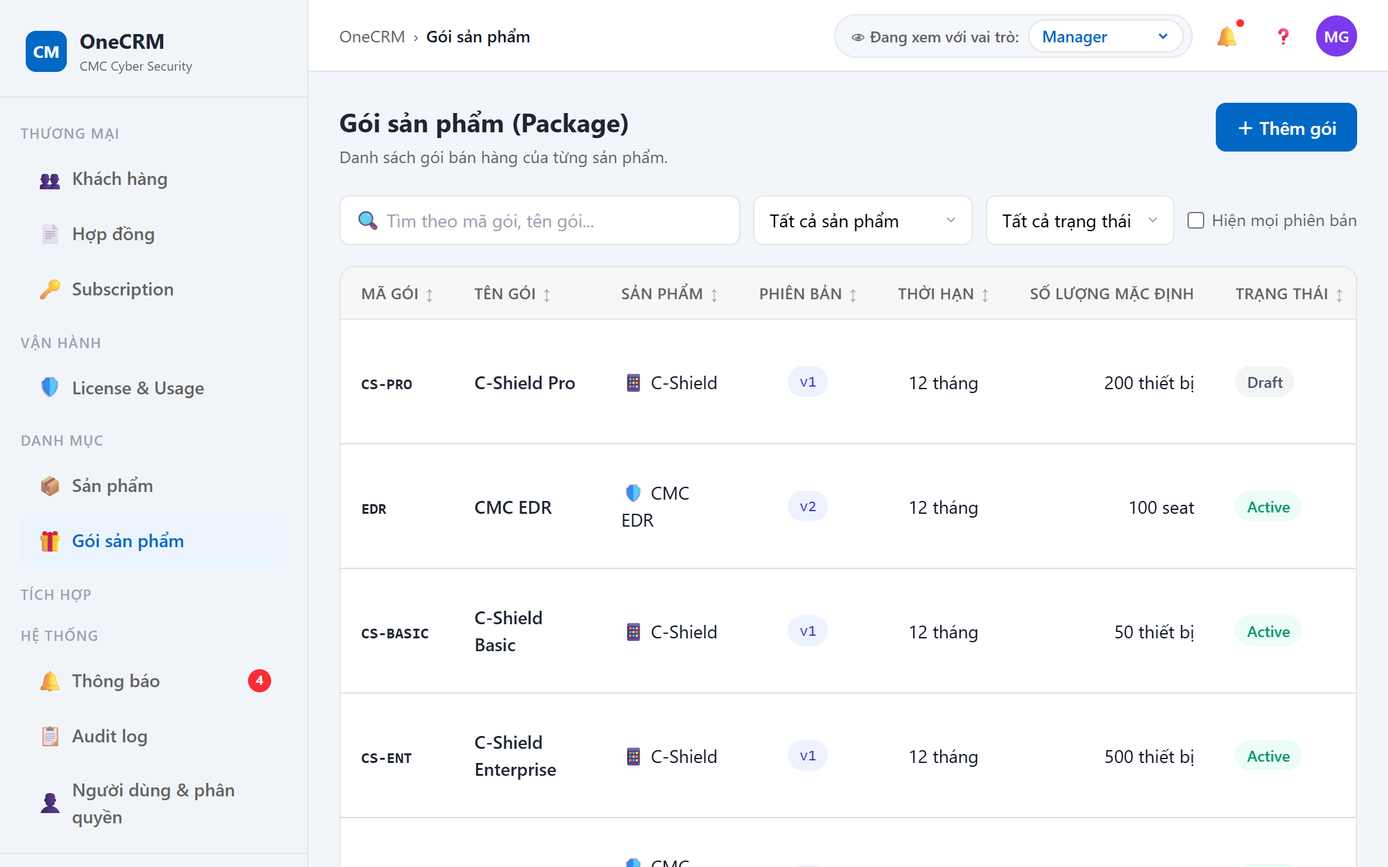
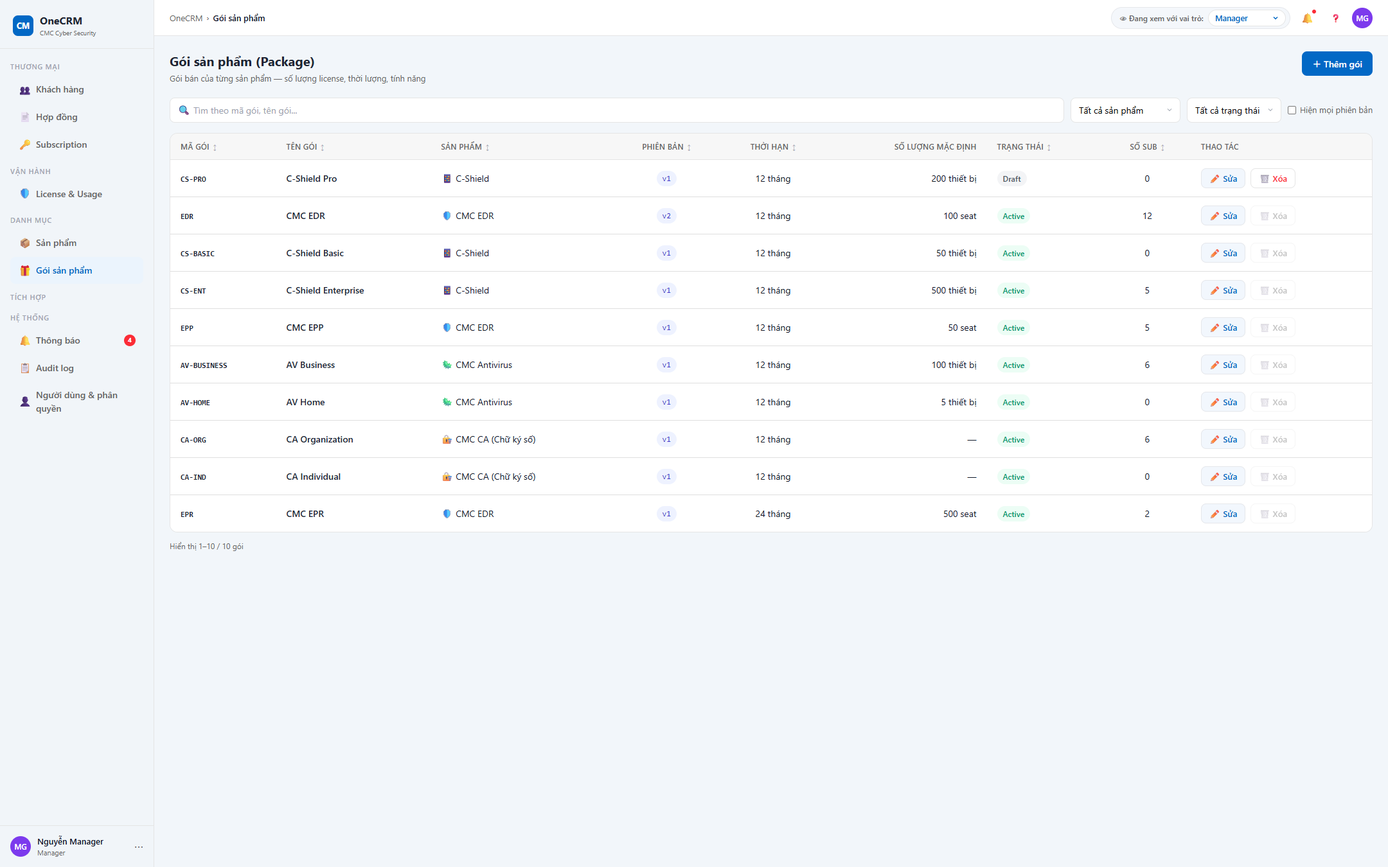
docs(PRD-v2.7.1): nhất quán UI/UX nút thao tác + sub-title + sort mặc định
Demo v2.8.0 + FRS đồng bộ; KHÔNG đổi FR/BR/data model PRD.

- Nút Xóa bỏ highlight (đỏ đặc → chữ đỏ, viền xám); giữ đỏ đặc cho nút xác nhận modal
- 'Chỉnh sửa' → 'Sửa'; danh sách thêm chữ '✏ Sửa'/'🗑 Xóa' (KH·HĐ·Sub·Gói); thống nhất icon 🗑
- Viết lại 5 sub-title (Khách hàng·Hợp đồng·Sản phẩm·Gói·Người dùng)
- Danh sách HĐ: nhãn 'Tạo:' cho createdAt (phân biệt Ngày ký) — UC-CON-01
- Sort mặc định (sửa lỗi + tường minh): Khách hàng A→Z (khớp UC-CUS-01 BR-04, demo trước thiếu); Audit log thời gian giảm dần; Thông báo giữ seed (time là nhãn hiển thị); +createdAt SUB-2026-020
- FRS đồng bộ: UC-CON-01, UC-CAT-01/03, UC-AUD-01, UC-NOT-01
- PRD: bump 2.7 → 2.7.1 + changelog cho dev
- Chụp lại 6 ảnh danh sách bị ảnh hưởng

diff --git a/docs/demo/v2.8.0_audit_notification.html b/docs/demo/v2.8.0_audit_notification.html
@@ -760,7 +760,7 @@ mark{background:#FEF9C3;border-radius:2px;padding:0 1px;}
       <div id="module-customer">
       <div class="view active" id="view-list">
         <div class="page-header">
-          <div><div class="page-title">Danh sách Khách hàng</div><div class="page-subtitle">Quản lý toàn bộ hồ sơ khách hàng — B2B, Reseller, B2C, Other</div></div>
+          <div><div class="page-title">Danh sách Khách hàng</div><div class="page-subtitle">Hồ sơ khách hàng tập trung — B2B, Reseller, B2C, Other</div></div>
           <button class="btn btn-primary" onclick="openModal('modalCreate')">＋ Thêm Khách hàng</button>
         </div>
         <div class="toolbar">
@@ -798,7 +798,7 @@ mark{background:#FEF9C3;border-radius:2px;padding:0 1px;}
           <div class="page-header">
             <div>
               <div class="page-title">Danh sách Hợp đồng</div>
-              <div class="page-subtitle">Quản lý hợp đồng thương mại — trực tiếp (Direct) & đại lý (Reseller)</div>
+              <div class="page-subtitle">Hợp đồng thương mại — trực tiếp (Direct) & đại lý (Reseller)</div>
             </div>
             <button class="btn btn-primary" onclick="conOpenModal('conModalCreate')">＋ Thêm Hợp đồng</button>
           </div>
@@ -948,7 +948,7 @@ mark{background:#FEF9C3;border-radius:2px;padding:0 1px;}
           <div class="page-header">
             <div>
               <div class="page-title">Sản phẩm (Product Catalog)</div>
-              <div class="page-subtitle">Danh mục sản phẩm đã đăng ký.</div>
+              <div class="page-subtitle">Sản phẩm an ninh mạng đang phân phối — nguồn để tạo gói & subscription</div>
             </div>
           </div>
           <div class="cat-kanban" id="catKanban"></div>
@@ -964,7 +964,7 @@ mark{background:#FEF9C3;border-radius:2px;padding:0 1px;}
           <div class="page-header">
             <div>
               <div class="page-title">Gói sản phẩm (Package)</div>
-              <div class="page-subtitle">Danh sách gói bán hàng của từng sản phẩm.</div>
+              <div class="page-subtitle">Gói bán của từng sản phẩm — số lượng license, thời lượng, tính năng</div>
             </div>
             <button class="btn btn-primary" onclick="pkgOpenCreate()">＋ Thêm gói</button>
           </div>
@@ -2286,12 +2286,12 @@ function showCustomer360(id){
 /* ── TABLE ────────────────────────────────────────────── */
 function renderTable(data,page){
   const tbody=document.getElementById('customerTable'),empty=document.getElementById('tableEmpty');
-  const active=data.filter(c=>!c.deletedAt);lastFilteredActive=active;listPage=page||1;
+  const active=data.filter(c=>!c.deletedAt).sort((a,b)=>(a.name||'').localeCompare(b.name||'','vi'));lastFilteredActive=active;listPage=page||1;
   if(!active.length){tbody.innerHTML='';empty.classList.remove('hidden');document.getElementById('pageInfo').textContent='0 kết quả';document.querySelector('.page-btns').innerHTML='';return;}
   empty.classList.add('hidden');
   const tp=Math.max(1,Math.ceil(active.length/PAGE_SIZE));if(listPage>tp)listPage=tp;
   const s=(listPage-1)*PAGE_SIZE,rows=active.slice(s,s+PAGE_SIZE);
-  tbody.innerHTML=rows.map(c=>{const sa=c.subs.filter(x=>x.status==='ACTIVE').length;const delOk=canDeleteCustomer(c);const delBtn=delOk?`<button class="btn btn-ghost btn-sm" onclick="event.stopPropagation();openDelete('${c.id}')" style="color:var(--red);border-color:var(--red);">🗑 Xóa</button>`:`<button class="btn btn-ghost btn-sm" disabled title="${deleteBlockedTooltip(c)}" style="color:var(--gray-400);border-color:var(--border);opacity:.5;cursor:not-allowed;">🗑 Xóa</button>`;
+  tbody.innerHTML=rows.map(c=>{const sa=c.subs.filter(x=>x.status==='ACTIVE').length;const delOk=canDeleteCustomer(c);const delBtn=delOk?`<button class="btn btn-ghost btn-sm" onclick="event.stopPropagation();openDelete('${c.id}')" style="color:var(--red);">🗑 Xóa</button>`:`<button class="btn btn-ghost btn-sm" disabled title="${deleteBlockedTooltip(c)}" style="color:var(--gray-400);border-color:var(--border);opacity:.5;cursor:not-allowed;">🗑 Xóa</button>`;
     return`<tr onclick="showCustomer360('${c.id}')"><td><div style="display:flex;align-items:center;gap:10px;"><div style="width:34px;height:34px;border-radius:8px;background:${typeColor(c.type)};display:flex;align-items:center;justify-content:center;color:white;font-weight:700;font-size:13px;flex-shrink:0;">${c.name.charAt(0)}</div><div><div class="col-name">${c.name}</div><div style="font-size:12px;color:var(--text-secondary);max-width:180px;overflow:hidden;text-overflow:ellipsis;white-space:nowrap;">${c.address||'—'}</div></div></div></td><td><span class="badge badge-${c.type.toLowerCase()}">${c.type}</span></td><td style="font-family:monospace;font-size:13px;">${c.tax||'—'}</td><td style="font-size:13px;">${c.email||'—'}</td><td>${c.subs.length>0?`<div style="font-size:13px;font-weight:500;">${c.subs.length} sub</div><div style="font-size:12px;color:var(--text-secondary);">${sa} active</div>`:'<span style="color:var(--text-secondary);font-size:13px;">Chưa có</span>'}</td><td onclick="event.stopPropagation()"><div style="display:flex;gap:4px;"><button class="btn btn-secondary btn-sm" onclick="event.stopPropagation();openEdit('${c.id}')">✏ Sửa</button>${delBtn}</div></td></tr>`;
   }).join('');
   const from=s+1,to=Math.min(s+PAGE_SIZE,active.length);document.getElementById('pageInfo').textContent=`Hiển thị ${from}–${to} / ${active.length} kết quả`;
@@ -2307,7 +2307,7 @@ function render360(c){
   const parent=c.parentId?customers.find(x=>x.id===c.parentId):null;
   const children=customers.filter(x=>x.parentId===c.id&&!x.deletedAt);
   const statusTxt=c.deletedAt?'Đã xóa':'Đang hoạt động',statusCls=c.deletedAt?'color:var(--red)':'color:#059669';
-  document.getElementById('profileHero').innerHTML=`<div class="profile-header"><div class="profile-id"><div class="profile-avatar">${c.name.charAt(0)}</div><div><div class="profile-name">${c.name}</div><div class="profile-meta"><span class="badge badge-${c.type.toLowerCase()}" style="margin-right:8px;">${c.type}</span><span style="${statusCls};font-size:12px;font-weight:500;">● ${statusTxt}</span></div></div></div><div class="profile-actions">${!c.deletedAt?`<button class="btn btn-secondary" onclick="openEdit('${c.id}')">✏ Sửa</button>${canDeleteCustomer(c)?`<button class="btn btn-ghost" onclick="openDelete('${c.id}')" style="color:var(--red);border-color:var(--red);">🗑 Xóa</button>`:`<button class="btn btn-ghost" disabled title="${deleteBlockedTooltip(c)}" style="color:var(--gray-400);border-color:var(--border);opacity:.5;cursor:not-allowed;">🗑 Xóa</button>`}`:''}<button class="btn btn-ghost" onclick="showView('list');document.getElementById('breadcrumbCurrent').textContent='Khách hàng'">← Quay lại</button></div></div>`;
+  document.getElementById('profileHero').innerHTML=`<div class="profile-header"><div class="profile-id"><div class="profile-avatar">${c.name.charAt(0)}</div><div><div class="profile-name">${c.name}</div><div class="profile-meta"><span class="badge badge-${c.type.toLowerCase()}" style="margin-right:8px;">${c.type}</span><span style="${statusCls};font-size:12px;font-weight:500;">● ${statusTxt}</span></div></div></div><div class="profile-actions">${!c.deletedAt?`<button class="btn btn-secondary" onclick="openEdit('${c.id}')">✏ Sửa</button>${canDeleteCustomer(c)?`<button class="btn btn-ghost" onclick="openDelete('${c.id}')" style="color:var(--red);">🗑 Xóa</button>`:`<button class="btn btn-ghost" disabled title="${deleteBlockedTooltip(c)}" style="color:var(--gray-400);border-color:var(--border);opacity:.5;cursor:not-allowed;">🗑 Xóa</button>`}`:''}<button class="btn btn-ghost" onclick="showView('list');document.getElementById('breadcrumbCurrent').textContent='Khách hàng'">← Quay lại</button></div></div>`;
   document.querySelectorAll('.tab').forEach(t=>t.classList.remove('active'));document.querySelector('.tab').classList.add('active');
   ['tab-overview','tab-contracts','tab-timeline','tab-audit'].forEach(id=>document.getElementById(id).classList.add('hidden'));
   document.getElementById('tab-overview').classList.remove('hidden');
@@ -3010,10 +3010,10 @@ function conRenderTable(){
     if(!isManager) delTitle='Chỉ Manager mới được xóa';
     else if(!canDel) delTitle='Đã có Subscription, không thể xóa';
     const delBtn=(canDel&&isManager)
-      ?`<button class="btn btn-ghost btn-sm" onclick="event.stopPropagation();conOpenDelete('${c.id}')" style="color:var(--red);border-color:var(--red)">🗑 Xóa</button>`
+      ?`<button class="btn btn-ghost btn-sm" onclick="event.stopPropagation();conOpenDelete('${c.id}')" style="color:var(--red)">🗑 Xóa</button>`
       :`<button class="btn btn-ghost btn-sm" disabled title="${delTitle}" style="opacity:.4;cursor:not-allowed">🗑 Xóa</button>`;
     return`<tr onclick="conOpenDetail('${c.id}')">
-      <td><div style="font-weight:600;color:var(--navy);font-size:13px;font-family:monospace">${c.code}</div><div style="font-size:11px;color:var(--text-secondary);margin-top:2px">${conFmtDate(c.createdAt)}</div></td>
+      <td><div style="font-weight:600;color:var(--navy);font-size:13px;font-family:monospace">${c.code}</div><div style="font-size:11px;color:var(--text-secondary);margin-top:2px">Tạo: ${conFmtDate(c.createdAt)}</div></td>
       <td><div style="font-weight:500">${c.customerName}</div><div style="font-size:11px;color:var(--text-secondary)">${c.customerType}</div></td>
       <td>${c.type==='DIRECT'?'<span class="con-badge con-badge-direct">🏢 Direct</span>':'<span class="con-badge con-badge-reseller">🤝 Reseller</span>'}</td>
       <td style="font-size:13px">${conFmtDate(c.signedDate)}</td>
@@ -3043,7 +3043,7 @@ function conOpenDetail(id){
   if(!isManager) delTitle='Chỉ Manager mới được xóa';
   else if(!canDel) delTitle='Đã có Subscription, không thể xóa';
   const delBtn=(canDel&&isManager)
-    ?`<button class="btn btn-ghost btn-sm" onclick="conOpenDelete('${c.id}')" style="color:var(--red);border-color:var(--red)">🗑 Xóa</button>`
+    ?`<button class="btn btn-ghost btn-sm" onclick="conOpenDelete('${c.id}')" style="color:var(--red)">🗑 Xóa</button>`
     :`<button class="btn btn-ghost btn-sm" disabled title="${delTitle}" style="opacity:.4;cursor:not-allowed">🗑 Xóa</button>`;
   document.getElementById('conDetailHero').innerHTML=`
     <div class="con-detail-header">
@@ -4096,7 +4096,7 @@ function subRenderTable(data,page){
     const editDraftRowBtn=isDraftRow
       ?`<button class="btn btn-ghost btn-sm" onclick="event.stopPropagation();subOpenEditSub('${sub.id}')" title="Sửa Draft" style="font-size:13px;">✏ Sửa</button>`:'';
     const deleteDraftRowBtn=isDraftRow
-      ?`<button class="btn btn-ghost btn-sm" onclick="event.stopPropagation();subOpenDeleteDraft('${sub.id}')" style="color:var(--red);border-color:var(--red);gap:4px;" title="Xóa Draft">🗑 Xóa</button>`:'';
+      ?`<button class="btn btn-ghost btn-sm" onclick="event.stopPropagation();subOpenDeleteDraft('${sub.id}')" style="color:var(--red);gap:4px;" title="Xóa Draft">🗑 Xóa</button>`:'';
     const beneficiary=sub.contractType==='RESELLER'&&sub.beneficiaryName
       ?`<div style="font-size:12px;color:var(--text-secondary);margin-top:2px;">→ ${sub.beneficiaryName}</div>`:''
     return`<tr onclick="subOpenDetail('${sub.id}')">
@@ -4468,7 +4468,7 @@ function subRenderHero(sub){
   const canEdit=subCanEdit(sub);
   const backBtn=`<button class="btn btn-ghost" onclick="subShowView('list');subRenderTable();document.getElementById('breadcrumbCurrent').textContent='Subscription';">← Quay lại</button>`;
   const approveBtn=isDraft?`<button class="btn btn-primary" onclick="subOpenApproveDraft('${sub.id}')">✅ Xác nhận</button>`:'';
-  const deleteDraftBtn=isDraft?`<button class="btn btn-ghost" onclick="subOpenDeleteDraft('${sub.id}')" style="color:var(--red);border-color:var(--red)">🗑 Xóa</button>`:'';
+  const deleteDraftBtn=isDraft?`<button class="btn btn-ghost" onclick="subOpenDeleteDraft('${sub.id}')" style="color:var(--red)">🗑 Xóa</button>`:'';
   const editBtn=canEdit?`<button class="btn btn-secondary btn-sm" onclick="subOpenEditSub('${sub.id}')">✏ Sửa</button>`:'';
   const suspendBtn=canSuspend?`<button class="btn btn-ghost btn-sm" onclick="subOpenSuspend('${sub.id}')" style="color:#D97706;border-color:#D97706;">⏸ Tạm dừng</button>`:'';
   const resumeBtn=canResume?`<button class="btn btn-ghost btn-sm" onclick="subOpenResume('${sub.id}')" style="color:#059669;border-color:#059669;">▶ Khôi phục</button>`:'';
@@ -5527,7 +5527,7 @@ function pkgRowActions(p,sc){
     ? pkgActDisabled('✏ Sửa','Gói đã ngừng bán nên không sửa được')
     : `<button class="btn btn-secondary btn-sm" onclick="pkgOpenEdit('${p.id}')">✏ Sửa</button>`;
   let delBtn;
-  if(p.status==='DRAFT'&&pkgCanDelete(p)) delBtn=`<button class="btn btn-ghost btn-sm" style="color:var(--red);border-color:var(--red)" onclick="pkgConfirm('delete','${p.id}')" title="Xóa gói">🗑 Xóa</button>`;
+  if(p.status==='DRAFT'&&pkgCanDelete(p)) delBtn=`<button class="btn btn-ghost btn-sm" style="color:var(--red)" onclick="pkgConfirm('delete','${p.id}')" title="Xóa gói">🗑 Xóa</button>`;
   else if(p.status==='DRAFT') delBtn=pkgActDisabled('🗑 Xóa','Chỉ người tạo gói hoặc Manager mới xóa được');
   else if(p.status==='ACTIVE') delBtn=pkgActDisabled('🗑 Xóa',"Gói đang bán nên không xóa được — muốn dừng, hãy dùng 'Ngừng bán' ở trang chi tiết");
   else delBtn=pkgActDisabled('🗑 Xóa','Gói đã ngừng bán được giữ lại để tra cứu, không xóa');
@@ -5603,7 +5603,7 @@ function pkgOpenDetail(id){
 }
 function pkgSwitchTab(t){document.querySelectorAll('#pkg-view-detail .pkg-tab').forEach(x=>x.classList.toggle('active',x.dataset.t===t));document.querySelectorAll('#pkg-view-detail .pkg-tabpane').forEach(x=>x.classList.remove('active'));document.getElementById('pkgtab-'+t).classList.add('active');}
 function pkgDetailActions(p){
-  if(p.status==='DRAFT')return `${pkgCanPublish(p)?`<button class="btn btn-secondary btn-sm" onclick="pkgConfirm('publish','${p.id}')">🚀 Xuất bản</button>`:pkgActDisabled('🚀 Xuất bản','Chỉ Sales tạo gói hoặc Manager mới được xuất bản')}<button class="btn btn-ghost btn-sm" onclick="pkgOpenEdit('${p.id}')">✏ Sửa</button>${pkgCanDelete(p)?`<button class="btn btn-ghost btn-sm" onclick="pkgConfirm('delete','${p.id}')" style="color:var(--red);border-color:var(--red)">🗑 Xóa</button>`:pkgActDisabled('🗑 Xóa','Chỉ Sales tạo gói hoặc Manager mới được xóa')}`;
+  if(p.status==='DRAFT')return `${pkgCanPublish(p)?`<button class="btn btn-secondary btn-sm" onclick="pkgConfirm('publish','${p.id}')">🚀 Xuất bản</button>`:pkgActDisabled('🚀 Xuất bản','Chỉ Sales tạo gói hoặc Manager mới được xuất bản')}<button class="btn btn-ghost btn-sm" onclick="pkgOpenEdit('${p.id}')">✏ Sửa</button>${pkgCanDelete(p)?`<button class="btn btn-ghost btn-sm" onclick="pkgConfirm('delete','${p.id}')" style="color:var(--red)">🗑 Xóa</button>`:pkgActDisabled('🗑 Xóa','Chỉ Sales tạo gói hoặc Manager mới được xóa')}`;
   if(p.status==='ACTIVE')return `<button class="btn btn-ghost btn-sm" onclick="pkgOpenEdit('${p.id}')">✏ Sửa</button>${pkgCanRetire()?`<button class="btn btn-ghost btn-sm" style="color:var(--amber);border-color:#FDE68A" onclick="pkgConfirm('retire','${p.id}')">⏹ Ngừng bán</button>`:pkgActDisabled('⏹ Ngừng bán','Chỉ Manager mới được ngừng bán gói')}`;
   if(p.status==='RETIRED')return pkgCanPublish(p)?`<button class="btn btn-secondary btn-sm" onclick="pkgConfirm('rollback','${p.id}')" title="Tạo phiên bản nháp mới sao chép cấu hình này">↩ Rollback</button>`:pkgActDisabled('↩ Rollback','Chỉ Sales tạo gói hoặc Manager mới được rollback');
   return '';
@@ -5981,7 +5981,7 @@ function licSeedData(){
     signedDate:'2026-04-05',description:'C-Shield Enterprise — bảo vệ ứng dụng di động Vingroup.',
     createdBy:'Sales B',createdAt:'2026-04-05T09:00:00',poolItems:[],
     subs:[
-      {id:'SUB-2026-020',contractId:'con-014',beneficiaryId:null,beneficiaryName:null,
+      {id:'SUB-2026-020',createdAt:'2026-04-08T09:00:00',contractId:'con-014',beneficiaryId:null,beneficiaryName:null,
        productId:'C_SHIELD',packageId:'PKG-CS-02',packageName:'C-Shield Enterprise',
        startDate:'2026-04-10',endDate:'2027-04-09',licenseQty:null,seatCount:500,
        status:'ACTIVE',note:'',
@@ -7770,7 +7770,7 @@ function notifRender(){
 }
 function notifRenderInbox(){
   const base=NOTIF_INBOX.filter(n=>n.roles.includes(currentUser.role));
-  let items=base;
+  let items=base; // NOTIF_INBOX seed đã xếp mới→cũ; 'time' là nhãn hiển thị (Hôm nay/Hôm qua/13/07) nên KHÔNG sort theo chuỗi được — giữ đúng thứ tự seed. (Khi backend có timestamp thật → sort desc theo đó.)
   const unread=base.filter(n=>!NOTIF_READ.has(n.id)).length;
   if(notifInboxFilter==='unread')items=base.filter(n=>!NOTIF_READ.has(n.id));
   const head=`<div style="display:flex;align-items:center;gap:10px;margin-bottom:14px;flex-wrap:wrap;">
@@ -7936,7 +7936,8 @@ function audApplyFilter(){
     (!audFilter.entity||r.entity.type===audFilter.entity)&&
     (!af||r.actor.toLowerCase().includes(af))&&
     (!audFilter.result||r.result===audFilter.result)&&
-    (!q||`${r.actor} ${r.action} ${r.detail}`.toLowerCase().includes(q)));
+    (!q||`${r.actor} ${r.action} ${r.detail}`.toLowerCase().includes(q)))
+    .sort((a,b)=>audParse(b.time)-audParse(a.time)); // mới → cũ (tường minh, không dựa thứ tự seed)
   const kpis=`<div class="mini-kpis" style="margin-bottom:14px;">
       <div class="mini-kpi"><div class="k-label">Thao tác trong khoảng</div><div class="k-value">${total}</div><div class="k-sub">bản ghi</div></div>
       <div class="mini-kpi ${failed?'red':''}"><div class="k-label">Thất bại</div><div class="k-value">${failed}</div><div class="k-sub">cần điều tra</div></div>
@@ -8140,7 +8141,7 @@ function usersRender(){
       <span class="badge badge-b2b">${amEsc(u.role)}</span></div>`).join('');
   const head=`<tr><th>Quyền hạn</th>${CAP_ROLES.map(r=>`<th class="cap-role">${r}</th>`).join('')}</tr>`;
   const rows=CAP_MATRIX.map(m=>`<tr><td>${amEsc(m.cap)}</td>${CAP_ROLES.map(r=>`<td>${m.roles.includes(r)?'<span class="cap-yes">●</span>':'<span class="cap-no">—</span>'}</td>`).join('')}</tr>`).join('');
-  body.innerHTML=`<div class="mod-head"><div><div class="page-title">Người dùng & phân quyền</div><div class="page-subtitle">Danh sách tài khoản và ma trận quyền theo vai trò — giai đoạn này chỉ để xem</div></div></div>
+  body.innerHTML=`<div class="mod-head"><div><div class="page-title">Người dùng & phân quyền</div><div class="page-subtitle">Tài khoản và ma trận quyền theo vai trò — màn chỉ đọc</div></div></div>
     <div class="set-panel">
       <div class="set-panel-head"><p>Quản trị tài khoản do hệ thống định danh chung của công ty đảm nhiệm — màn này chỉ để <b>xem</b>.</p><span class="set-owner">Quản trị tài khoản đầy đủ sẽ bổ sung ở giai đoạn sau</span></div>
       <div style="font-weight:600;color:var(--navy);margin-bottom:6px;">Tài khoản demo</div>

diff --git a/docs/prd/OneCRM_PRD_v2.7.md b/docs/prd/OneCRM_PRD_v2.7.md
@@ -2,9 +2,9 @@
 
 **HỆ THỐNG ONECRM**
 
-**Phiên bản**: 2.7
+**Phiên bản**: 2.7.1
 
-**Ngày phát hành**: 17/07/2026
+**Ngày phát hành**: 24/07/2026
 
 **Người soạn**: Nguyễn Công Giang
 
@@ -22,6 +22,7 @@
 | 2.6.1 | 13/07/2026 | Nguyễn Công Giang | **Chốt 20 Open Question của M-05** (`docs/plans/M-05_open_questions.md`):<br>· **§5.3.5 PACKAGE — bỏ trường `price`**: giai đoạn này **không có scope về giá**; gói chỉ định nghĩa số lượng license, thời lượng, danh sách tính năng.<br>· **§5.3.7 `runtime_config`** — chuẩn hoá 7 khoá cấu hình cho M-05 (chu kỳ đẩy 24h · SLA lệch 15 phút · báo gia hạn 60 ngày · sắp dùng hết 90% · `auto_reconcile_after_hours` để trống thì **không kiểm tra**).<br>· **BR-04.7 — bỏ quota theo người dùng** (vận hành cần đồng bộ hàng loạt sau sự cố).<br>· **Quy ước tên quyền toàn dự án: `{tài_nguyên}:{hành_động}`** (`license:view`, `license:force_sync`, `license:view_portal`, `license:view_issues`).<br>· On-premise: vẫn hiện trong danh sách License & Usage với nhãn "Không theo dõi tự động", **loại khỏi mọi cảnh báo**.<br>· Auditor: **xem được** danh sách + chi tiết, không có hành động tạo tác động.<br>**FRS:** bộ `UC-LIC-01..04` tại `docs/frs/licenses/`. |
 | 2.6 | 13/07/2026 | Nguyễn Công Giang | Module **M-05 License Mirror & Usage Tracking**:<br>**§6.5.1 viết lại hoàn toàn** — mục tiêu module, 2 nhóm người dùng & thời điểm dùng, 4 pain point, khái niệm cốt lõi, **ranh giới CRM được/không được làm**, 3 tình huống dễ hiểu nhầm (GRACE ≠ mismatch · sub vừa gia hạn ACTIVE+mirror PENDING là hợp lệ · `used > total` là lỗi dữ liệu, không phải overage), vị trí trong luồng dữ liệu, phạm vi Phase 1.<br>**Chốt OQ-07 + quyết định mới (§6.5.1h):** (1) Force Sync gán theo **capability `usage.force_sync`** (Sales/CSKH/Manager/License Admin; Auditor không) + **quota 20 lượt/giờ/người** — bịt lỗ hổng rate-limit-theo-sub không chặn được quét hàng loạt; (2) Product Module declare **`runtime_config.supports_force_sync`** → false thì ẩn nút; (3) deep-link portal gated bằng quyền **`license:view_portal`** (chỉ là gợi ý hiển thị, **không phải bảo mật** — product tự enforce), URL lấy từ **`runtime_config.portal_url_template`**, chỉ hiện khi đã có `external_ref`, ghi audit khi click.<br>**Demo:** `docs/demo/v2.6.0_license.html`. |
 | 2.7 | 17/07/2026 | Nguyễn Công Giang | **Đồng bộ module M-07 Integration Layer với bộ FRS UC-INT-01..06** (đã chốt demo `v2.7.0_integration` 16/07).<br>**§6.7.1 viết lại theo format a/b/c** (bài toán · ai dùng · 4 pain point) + mục **d) hợp đồng metadata** + mục **e) bảng link 6 FRS UC-INT** (FRS là nguồn chốt hành vi).<br>**Sửa lệch FR-INT ↔ FRS:** FR-INT-03 **SG-4** (sai chữ ký → 4xx, KHÔNG ghi inbox, chỉ log hạ tầng); FR-INT-04 **giữ thứ tự per subscription** (không per correlation_id) + **chống đến muộn** theo `occurred_at` (BR-05) + **command-ack** `license.*`/`correlation_id` (BR-12) + ánh xạ GRACE/RESTRICTED/SUSPENDED; FR-INT-06 tách 2 luồng — gửi lại lệnh outbox (chỉ DEAD_LETTER, giữ `event_id`) và **xử lý lại inbox THEO CHUỖI** (không báo khách, không phát event mới, xem trước, dừng giữa chừng).<br>**Thêm §6.7.8 FR-INT-07 Channel Health Dashboard** (UC-INT-03 — trước ghi "chưa có trong PRD v2.6").<br>**Data model:** WEBHOOK_INBOX +`occurred_at` +`schema_version` (`event_type`→`event_key`); LICENSE_MIRROR +`last_event_occurred_at` +`last_change_source` +`source_command_event_id`; OUTBOX_EVENT +`product_id` (`event_type`→`event_key`). |
+| 2.7.1 | 24/07/2026 | Nguyễn Công Giang | **Đợt nhất quán UI/UX + sort mặc định — thay đổi ở tầng demo (`v2.8.0`) & FRS; KHÔNG đổi FR / BR / data model của PRD.** *(Dev: không phải migrate schema hay đổi API; chi tiết hành vi nằm ở FRS tương ứng.)*<br>**① Nút thao tác (toàn app):** nút **Xóa bỏ highlight** (đỏ đặc → chữ đỏ + viền xám; **giữ** đỏ đặc cho nút xác nhận trong modal); **"Chỉnh sửa" → "Sửa"**; danh sách bổ sung chữ **"✏ Sửa" / "🗑 Xóa"** (KH · HĐ · Sub · Gói); thống nhất icon 🗑.<br>**② Sub-title 5 màn** viết lại (Khách hàng · Hợp đồng · Sản phẩm · Gói · Người dùng) — bỏ động từ thừa, bỏ rò ghi chú phạm vi.<br>**③ Danh sách HĐ:** thêm nhãn **"Tạo:"** trước `createdAt` để phân biệt với cột **Ngày ký** (`signedDate`) — UC-CON-01.<br>**④ Sort mặc định (sửa lỗi + đảm bảo bằng code):** **Khách hàng** sort Tên A→Z (demo trước **THIẾU** dù UC-CUS-01 BR-04 đã yêu cầu); **Audit log** sort thời gian giảm dần tường minh (UC-AUD-01); **Thông báo** giữ mới→cũ theo seed vì `time` là nhãn hiển thị (UC-NOT-01); thêm `createdAt` cho bản ghi mẫu SUB-2026-020.<br>**FRS đồng bộ:** UC-CON-01 · UC-CAT-01 · UC-CAT-03 · UC-AUD-01 · UC-NOT-01. |
 
 ---
 

diff --git a/docs/frs/catalog/UC-CAT-01_product_kanban.md b/docs/frs/catalog/UC-CAT-01_product_kanban.md
@@ -80,9 +80,8 @@ Màn hình read-only, không có thao tác ghi dữ liệu nên **không phát s
 ```
 ┌──────────────────────────────────────────────────────────────┐
 │ 📦 Sản phẩm (Product Catalog)                                 │
-│ Danh mục sản phẩm đã đăng ký — mỗi thẻ là 1 sản phẩm, bên     │
-│ trong liệt kê các gói. Click thẻ để xem chi tiết. Product do  │
-│ Admin đăng ký 1 lần (read-only).                              │
+│ Sản phẩm an ninh mạng đang phân phối                         │
+│ — nguồn để tạo gói & subscription                            │
 ├──────────────────────────────────────────────────────────────┤
 │  ┌────────────────────────┐   ┌────────────────────────┐     │
 │  │ 🛡 CMC EDR    ● Đang..│   │ 📱 C-Shield   ● Đang.. │     │  ← click đầu thẻ
@@ -113,7 +112,7 @@ Màn hình read-only, không có thao tác ghi dữ liệu nên **không phát s
 | # | Thành phần | Loại | Mô tả |
 |---|---|---|---|
 | 1 | Page header — tiêu đề | Text | "Sản phẩm (Product Catalog)". |
-| 2 | Page header — subtitle | Text | "Danh mục sản phẩm đã đăng ký — mỗi thẻ là 1 sản phẩm, bên trong liệt kê các gói. Click thẻ để xem chi tiết. Product do Admin đăng ký 1 lần (read-only)." |
+| 2 | Page header — subtitle | Text | "Sản phẩm an ninh mạng đang phân phối — nguồn để tạo gói & subscription". *(Chi tiết hành vi: mỗi thẻ 1 sản phẩm, click để xem chi tiết, Product do Admin đăng ký 1 lần — xem §1 Mô tả & Business Rules.)* |
 | 3 | Breadcrumb | Text | Hiển thị "Sản phẩm". |
 | 4 | Lưới Kanban `.cat-kanban` | Grid layout | Grid 2 cột, `gap` giữa các thẻ, `align-items: start`. Responsive về 1 cột khi bề rộng ≤ 820px (BR-02). |
 | 5 | Thẻ sản phẩm (card) | Card | Mỗi thẻ = 1 product. Gồm phần đầu (click được → End 1) và nút cuối thẻ (→ End 2). |

diff --git a/docs/frs/catalog/UC-CAT-03_package_list.md b/docs/frs/catalog/UC-CAT-03_package_list.md
@@ -107,8 +107,7 @@
 │ Gói sản phẩm  ›  Gói sản phẩm                                (breadcrumb)    │
 ├────────────────────────────────────────────────────────────────────────────┤
 │ Gói sản phẩm (Package)                                        [ ＋ Thêm gói ]│
-│ Danh sách gói bán hàng của từng sản phẩm. Mặc định hiện phiên bản hiện hành  │
-│ của mỗi mã gói — tích "Hiện mọi phiên bản" để xem lịch sử version.           │
+│ Gói bán của từng sản phẩm — số lượng license, thời lượng, tính năng        │
 ├────────────────────────────────────────────────────────────────────────────┤
 │ [🔎 Tìm theo mã gói, tên gói...] [Tất cả sản phẩm▾] [Trạng thái▾] ☐ Hiện mọi│
 │                                                                phiên bản     │
@@ -137,7 +136,7 @@
 | Component | Loại | Mô tả |
 |---|---|---|
 | Tiêu đề | Heading | "Gói sản phẩm (Package)". |
-| Subtitle | Text | "Danh sách gói bán hàng của từng sản phẩm. Mặc định hiện phiên bản hiện hành của mỗi mã gói — tích 'Hiện mọi phiên bản' để xem lịch sử version." |
+| Subtitle | Text | "Gói bán của từng sản phẩm — số lượng license, thời lượng, tính năng". *(Hành vi mặc định gộp phiên bản hiện hành + tích "Hiện mọi phiên bản" để xem lịch sử version: xem Business Rules.)* |
 | Nút "＋ Thêm gói" | Primary button | Mở form Tạo gói (UC riêng) → **End 2**. |
 
 #### Thanh công cụ (Toolbar)

diff --git a/docs/frs/audit_notification/UC-NOT-01_inbox_and_bell.md b/docs/frs/audit_notification/UC-NOT-01_inbox_and_bell.md
@@ -43,7 +43,7 @@
 |---|---|---|
 | **1** | Người dùng | Bấm **chuông 🔔** (bảng xổ) **HOẶC** mở menu **Thông báo → tab Hộp thư của tôi**. |
 | **2** | System | Lọc thông báo theo **VAI TRÒ** người nhận của người dùng hiện tại (theo vai trò, **không** theo số lượng — BR-02/03).<br>**[Gateway — Vai trò có nhận thông báo thương mại?]**<br>→ **[Không]** (License Admin / Auditor): sang **AF-02**.<br>→ **[Có]**: tiếp bước 3. |
-| **3** | System | Render danh sách (chuông: vài mục gần nhất; hộp thư: đầy đủ); chấm xanh = chưa đọc; badge số chưa đọc (BR-05, BR-08). |
+| **3** | System | Render danh sách **sắp theo thời gian, mới nhất trên cùng** (chuông: vài mục gần nhất; hộp thư: đầy đủ); chấm xanh = chưa đọc; badge số chưa đọc (BR-05, BR-08). |
 | **4** | Người dùng | **[Gateway — Thao tác?]**<br>→ Bấm 1 thông báo: **AF-01**.<br>→ "Đánh dấu tất cả đã đọc" (bảng xổ chuông là nút "Đọc hết"): tiếp bước 5.<br>→ "Xem tất cả →" (chỉ ở bảng xổ chuông): **End 2** (mở Hộp thư đầy đủ).<br>→ Không thao tác: **End 1** (ở lại). |
 | **5** | System | Đánh dấu **tất cả** thông báo là đã đọc; cập nhật badge chưa đọc + tắt chấm đỏ chuông (BR-05) → **quay bước 4**. |
 

diff --git a/docs/frs/audit_notification/UC-AUD-01_search_audit_log.md b/docs/frs/audit_notification/UC-AUD-01_search_audit_log.md
@@ -47,7 +47,7 @@
 |---|---|---|
 | **1** | Người dùng | Mở menu **Audit log**. |
 | **2** | System | **[Gateway — Có quyền `audit:view`?]**<br>→ **[Có]**: tiếp bước 3.<br>→ **[Không]**: sang EF-01. |
-| **3** | System | Lọc theo **khoảng thời gian mặc định (30 ngày)** (BR-03); tính **KPI** trên tập trong khoảng (BR-08); render bảng đầy đủ 7 cột — **cột Chi tiết (before → after + lý do) hiển thị sẵn trong cột** (BR-05) — + sticky header. |
+| **3** | System | Lọc theo **khoảng thời gian mặc định (30 ngày)** (BR-03); tính **KPI** trên tập trong khoảng (BR-08); **sắp theo thời gian giảm dần — mới nhất trên cùng** (đảm bảo bằng code, không dựa thứ tự lưu); render bảng đầy đủ 7 cột — **cột Chi tiết (before → after + lý do) hiển thị sẵn trong cột** (BR-05) — + sticky header. |
 | **4** | Người dùng | **[Gateway — Thao tác?]**<br>→ Thu hẹp / lọc / tìm / chip **"Chỉ thất bại"**: sang **AF-01**.<br>→ Bấm liên kết **Đối tượng**: **End 2** (mở màn hồ sơ liên quan).<br>→ Không thao tác: **End 1**. |
 
 > **Không có tương tác bấm-dòng-để-mở-chi-tiết** — bảng phẳng, before → after + lý do luôn hiển thị sẵn trong cột Chi tiết.

diff --git a/docs/frs/contracts/UC-CON-01_list_contract.md b/docs/frs/contracts/UC-CON-01_list_contract.md
@@ -94,7 +94,7 @@ Màn hình Danh sách Hợp đồng bao gồm 3 khu vực chính:
 
 | # | Cột | Nguồn dữ liệu | Mô tả hiển thị | Sortable |
 |---|---|---|---|---|
-| 1 | **Mã HĐ** | `contract.code` | Dòng 1: mã HĐ — font monospace, bold, màu navy. Dòng 2: `contract.createdAt` định dạng `dd/MM/yyyy`, font nhỏ, màu xám. | ✅ |
+| 1 | **Mã HĐ** | `contract.code` | Dòng 1: mã HĐ — font monospace, bold, màu navy. Dòng 2: nhãn **"Tạo: "** + `contract.createdAt` định dạng `dd/MM/yyyy`, font nhỏ, màu xám — nhãn giúp phân biệt với cột **Ngày ký** (`signedDate`) và làm rõ danh sách đang sort theo ngày tạo. | ✅ |
 | 2 | **Khách hàng** | `contract.customerName` | Dòng 1: tên khách hàng. Dòng 2: loại KH (B2B / Reseller / B2C / Other), font nhỏ, màu xám. | ✅ |
 | 3 | **Loại HĐ** | `contract.type` | Badge: `DIRECT` → xanh dương; `RESELLER` → tím. | ✅ |
 | 4 | **Ngày ký** | `contract.signedDate` | Định dạng `dd/MM/yyyy`. Hiển thị "—" khi `signedDate = null`. | ✅ |
